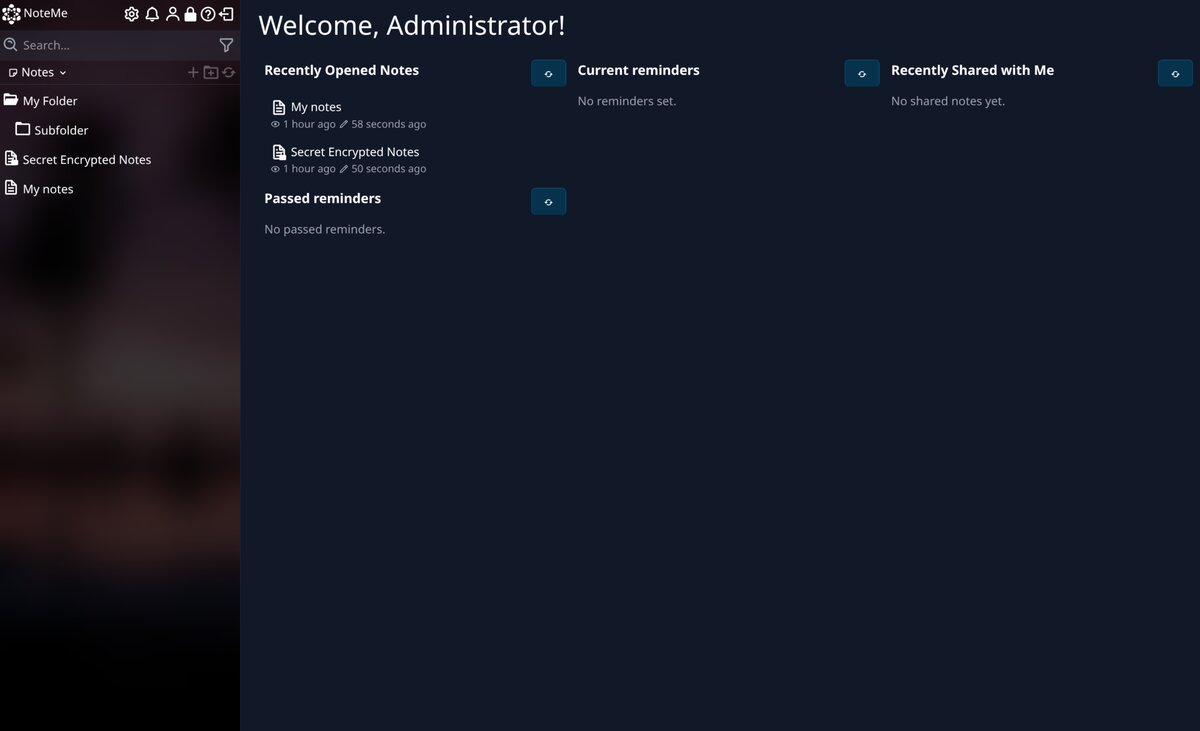
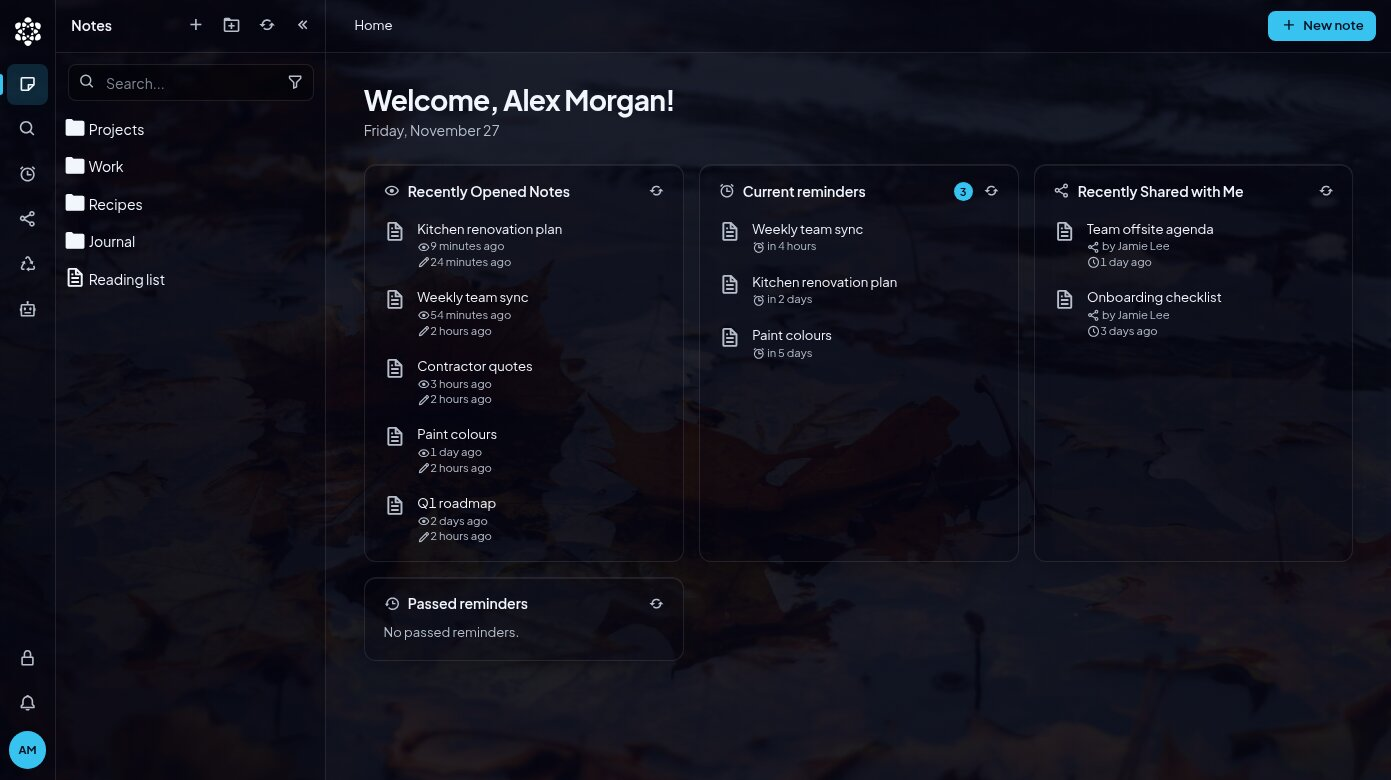
update screenshots, readme and v1 upgrade guide for the v2 release
New screenshots of the redesign, a feature list grouped by area, an
upgrade guide in docs/upgrading-from-v1.md and the Docker image published
as arekxv/note-me again (decision 0.92).

diff --git a/README.md b/README.md
@@ -4,57 +4,91 @@ NoteMe is a simple, note-taking app with powerful features which help you to
 keep the ownership of your notes and keep them organized however you see fit.
 
 <p>
-  <img src=".github/screenshot-1.jpg" alt="Login page" width="32%" />
-  <img src=".github/screenshot-2.jpg" alt="Dashboard" width="32%" />
-  <img src=".github/screenshot-3.jpg" alt="Note view" width="32%" />
+  <img src=".github/screenshot-1.jpg" alt="Sign in page" width="49%" />
+  <img src=".github/screenshot-2.jpg" alt="Dashboard with recent notes, reminders and notes shared with you" width="49%" />
+  <img src=".github/screenshot-3.jpg" alt="Note with a Mermaid diagram and a table, next to an AI assistant conversation" width="49%" />
+  <img src=".github/screenshot-4.jpg" alt="Rich text editor with the formatting toolbar" width="49%" />
 </p>
 
 ## Features
 
-- **Markdown support**. Notes are written and shown using markdown. All standard
-  markdown syntax is supported with additional flavors like task lists,
-  footnotes, tables and extensions special to NoteMe like showing dynamic table
-  of contents, note links and listing notes from a specific group.
+### Writing
+
+- **Rich text or markdown, your choice**. Write in a rich text editor with a
+  formatting toolbar, switch to the markdown source editor with syntax
+  highlighting, or preview the result, all on the same note. Notes are always
+  stored as plain markdown, and each user picks which editor opens first.
+- **Markdown with extras**. Everything standard markdown has, plus task lists,
+  tables, footnotes and highlighted code blocks. NoteMe adds its own blocks: a
+  live table of contents, links to other notes, a list of the notes in a
+  folder, aligned images and audio and video players.
 - **Mermaid diagrams**. Code blocks marked with the `mermaid` language are
-  rendered as [Mermaid](https://mermaid.js.org/) diagrams, letting you embed
-  flowcharts, sequence diagrams, class diagrams and more directly in your notes.
-- **Organize your notes**. You can tag your notes, store them in any kind of
-  groups or subgroups making it easy to create an exact structure you want.
-- **Multiple users welcome**. NoteMe supports multiple users with different
-  roles, each user has its own space for notes so that everyone on the same
-  NoteMe server can have their own folder structure.
-- **Sharing notes**. Notes created can be shared internally between users or to
-  everyone outside by creating a share link.
-- **Remind yourself of important notes**. You can set one-time or recurring
-  reminders for your own notes or the notes shared with you so that you never
-  forget an important task.
-- **History of changes**. Every saved change to your note is recorded in the
-  history so that you can easily compare changes or go back and forward in time.
-- **Note files**. You can upload any kind of file into NoteMe and use it in your
-  notes as an image or make it downloadable. Files can be made private or public
-  so that you can control who has access to them.
-- **Protect your notes**. Notes can be protected with your password meaning they
-  will be encrypted at rest in the database so that nobody except you can see
-  their contents, not even administrators, not even by anyone accessing the
-  database directly.
-- **Backup support**. Daily backups can be created by NoteMe and stored on the
-  server location or on AWS S3. You can specify multiple backup targets so that
-  you can backup to more than one place.
-- **Easy login with Passkeys**. You can setup a login into your notes by only
-  using secure Passkey standard without even needing to enter a password.
-- **Import/Export your data**. You can import all of your existing notes into
-  NoteMe or create a full export of all of your notes and files.
-- **AI assistant**. Administrators connect Ollama, OpenAI (or a compatible
-  server) or Claude, and users chat with an assistant that works on their notes,
-  folders, reminders and sharing with their own permissions. Actions that cannot
-  be undone wait for the user to allow them, and protected notes are only read
-  after the user agrees.
-- **Recycled Notes**. Deleted notes are kept in recycle bin for 30 days and can
-  be retrieved by you at any time or fully deleted.
+  drawn as [Mermaid](https://mermaid.js.org/) diagrams, so flowcharts,
+  sequence diagrams, timelines and more live right in your notes.
+- **History of changes**. Every saved change is kept as a version. Compare
+  any version with the current note line by line and restore it with one
+  click.
+- **Files in your notes**. Upload any file and show it in a note as an image
+  or a player, or make it downloadable. Browse files in a grid or a list and
+  mark each one private or public.
+
+### Organizing
+
+- **Folders and tags**. Put notes in folders and subfolders, rearrange them
+  by drag and drop, and tag them however you like.
+- **Search**. Find notes by title and content, narrowed down to a folder or a
+  set of tags.
+- **Dashboard**. See recently opened notes, upcoming and passed reminders and
+  notes others shared with you as soon as you sign in.
+- **Reminders**. Set one-time or recurring reminders on your own notes or the
+  ones shared with you and get a notification when they are due.
+- **Recycle bin**. Deleted notes stay in the recycle bin for 30 days, so you
+  can restore them or delete them for good.
+
+### Working together
+
+- **Multiple users**. Every user has their own notes and folders. Roles
+  decide who can manage users, files, backups and server settings.
+- **Sharing**. Share a note with other users, or with anyone through a public
+  link that can expire.
+- **Live updates**. Changes show up immediately in every open tab and for
+  everyone a note is shared with, without reloading.
+
+### AI
+
+- **AI assistant**. Administrators connect Ollama, OpenAI (or any compatible
+  server) or Claude, and users chat with an assistant that searches, reads,
+  writes and organizes their notes, folders, reminders and shares with the
+  user's own permissions. Actions that cannot be undone wait for the user to
+  allow them, and protected notes are only read after the user agrees.
+- **MCP server**. Connect your own AI tool, such as Claude, ChatGPT or Cursor,
+  to your notes over the Model Context Protocol with a personal token or
+  OAuth. Each connection can be limited to read only access.
+
+### Security and privacy
+
+- **Protected notes**. Protect a note with your password and it is encrypted
+  in the database, so nobody but you can read it: not other users, not
+  administrators and not anyone with direct access to the database.
+- **Passkeys**. Sign in with a passkey instead of a password.
+- **Hardened sign in**. Passwords are hashed with Argon2id, repeated failed
+  sign ins are rate limited, and administrators can review security events in
+  the audit log.
+- **Encrypted backups**. Nightly backups go to a folder on the server or to
+  AWS S3, to as many targets as you like, and every backup is encrypted.
+- **Your data, portable**. Import existing markdown or text files as notes,
+  or export all of your notes and files as one ZIP archive.
+
+### Hosting
+
 - **Easily hostable**. NoteMe is a single static binary with no runtime
-  dependencies (the database drivers are pure Go), or you can run it as a
-  docker container using one of the prebuilt container images. Data is kept in
-  SQLite, PostgreSQL or MySQL.
+  dependencies that runs on Linux, macOS and Windows, or a ready-made
+  container image. Keep your data in SQLite, PostgreSQL or MySQL, and move
+  between them by restoring a backup.
+- **Installable app**. Add NoteMe to your phone's home screen or your desktop
+  as a progressive web app.
+- **Built-in help**. Help pages and first-time introductions explain every
+  part of the app, including the administrator settings.
 
 # Development and Contributing
 
@@ -109,7 +143,7 @@ Requirements: [Docker](https://docs.docker.com/engine/install/) or
 1. Create `.env` file (use the one from this [repository](.env.example)) and
    set `BACKUP_ENCRYPTION_KEY` and `AI_ENCRYPTION_KEY` to secrets of your
    own; the server does not start without them
-2. Run `docker run -p 8000:8000 --env-file ./.env arekxv/note-me-go`
+2. Run `docker run -p 8000:8000 --env-file ./.env arekxv/note-me`
 
 By default application will be on `http://localhost:8000`.
 
@@ -204,6 +238,13 @@ always win.
 A value that cannot be parsed stops the server with an error instead of
 falling back to the default.
 
+# Upgrading from NoteMe v1
+
+NoteMe v2 is a rewrite in Go. Existing v1 data comes along, but the database
+must be converted once with `noteme-upgrade`, which asks for each user's
+password, and a few settings and the reverse proxy setup change. Follow the
+step by step guide in [docs/upgrading-from-v1.md](docs/upgrading-from-v1.md).
+
 # Building
 
 ## Build using Make
@@ -247,23 +288,7 @@ it, so a backup restores into SQLite, PostgreSQL or MySQL. Restoring into
 PostgreSQL or MySQL replaces every row of the configured database; this is
 also how to move from one database to another.
 
-## Upgrading from NoteMe v1
-
-Stop NoteMe v1, back up its database and run `noteme-upgrade` with
-`DATABASE_DSN` pointing at it and `FILES_LOCATION` set to the folder for
-uploaded files. It moves uploaded files out of the database into
-`FILES_LOCATION`, brings the database to the current structure and
-re-encrypts protected notes into the new format. Passkeys cannot be carried
-over and are removed; users register them again under Profile → Passkeys.
-
-Password hashes and protected notes can only be converted with each user's
-password, so the upgrade asks for every user's password (the input is
-visible; leave it empty to skip a user). A skipped user can no longer sign
-in until an administrator sets a new password for them in Settings → Users,
-and their protected notes are lost with the old password. Users that were
-deleted in v1 are removed together with their data. Running the upgrade
-again is safe. NoteMe refuses to start on a database that still needs the
-upgrade.
+## Audit log and server log
 
 Administrators can see security events (sign-ins, lockouts, password
 changes, user and backup management) under Settings → Audit log, kept for a
@@ -277,7 +302,7 @@ Steps:
 
 1. Run `make docker-build`
 2. After docker image is built run
-   `docker run -p 8000:8000 --env-file ./.env arekxv/note-me-go:<VERSION>`,
+   `docker run -p 8000:8000 --env-file ./.env arekxv/note-me:<VERSION>`,
    replace `<VERSION>` with the version you see from the output of the build
 
 ## Build using Podman
@@ -288,7 +313,7 @@ Steps:
 
 1. Run `make podman-build`
 2. After image is built run
-   `podman run -p 8000:8000 --env-file ./.env localhost/arekxv/note-me-go`
+   `podman run -p 8000:8000 --env-file ./.env localhost/arekxv/note-me`
 
 # License
 

diff --git a/docs/upgrading-from-v1.md b/docs/upgrading-from-v1.md
@@ -1,0 +1,73 @@
+# Upgrading from NoteMe v1 to v2
+
+NoteMe v2 is a rewrite in Go. Your notes, folders, tags, files, shares,
+reminders and history come along, but the database must be converted once
+with `noteme-upgrade` before v2 can use it. NoteMe v2 refuses to start on a
+database that has not been upgraded, so nothing is changed by accident.
+
+What changes for you:
+
+- **Passwords are needed once.** Password hashes and protected notes can only
+  be converted with each user's password, so the upgrade asks for every
+  user's password (the input is visible on screen). Leave one empty to skip
+  that user: they can sign in again after an administrator sets a new
+  password in Settings → Users, but their protected notes cannot be
+  recovered.
+- **Passkeys are removed.** Users register them again under Profile →
+  Passkeys.
+- **Uploaded files move out of the database** into `FILES_LOCATION`.
+- **Users deleted in v1** are removed for good, together with their data.
+- **One port.** The websocket is now served on `/ws` of the webserver port
+  (8000); port 8080 is no longer used.
+- **Settings changed.** `SQLITE_DATABASE_LOCATION` is replaced by
+  `DATABASE_DSN` (`sqlite:///app/data/database.sqlite`). `WEBSOCKET_PORT`,
+  `SOCKET_HOSTNAME`, `COOKIE_DOMAIN`, `RUN_MIGRATIONS_ON_STARTUP` and
+  `DISABLE_SERVICE_PERIODIC_TASKS` are gone. `BACKUP_ENCRYPTION_KEY` and
+  `AI_ENCRYPTION_KEY` are new and required. See
+  [Configuration](../README.md#configuration).
+- **Backups are encrypted** and a local backup target's location is now a
+  folder name inside `LOCAL_BACKUP_ROOT_LOCATION`, not an absolute path. Edit
+  local targets from v1 (for example `/app/backup` becomes `nightly`) in
+  Settings → Backups after the upgrade. Backups made by v1 cannot be restored
+  by v2; keep them together with the v1 image in case you need to go back.
+
+## Upgrade with Docker Compose
+
+These steps assume the v1 setup from the v1 `docker-compose.example.yml`
+(database in `./data`, local backups in `./backup`).
+
+1. Stop NoteMe: `docker compose down`
+2. Back up the database: `cp -a data data-v1-backup`
+3. Update `docker-compose.yml` from the new
+   [docker-compose.example.yml](../docker-compose.example.yml): keep your
+   domain in `APP_URL`, set `BACKUP_ENCRYPTION_KEY` and `AI_ENCRYPTION_KEY` to
+   secrets of your own, drop the 8080 port and the removed variables, and add
+   the `./files` volume.
+4. The v2 image runs as an unprivileged user (uid 65532) instead of root, so
+   give it the data folders:
+   `mkdir -p files backup && sudo chown -R 65532:65532 data files backup`
+5. Pull the new image: `docker compose pull`
+6. Run the upgrade and enter each user's password when asked:
+   `docker compose run --rm --entrypoint /app/noteme-upgrade note-me`
+7. Update the reverse proxy: remove the `/websocket-server` location and
+   forward `/ws` to port 8000 as shown in
+   [Reverse proxy](../README.md#reverse-proxy).
+8. Start NoteMe: `docker compose up -d`
+9. Sign in, register passkeys again and fix local backup target locations in
+   Settings → Backups.
+
+## Upgrade without Docker
+
+1. Stop NoteMe v1 and copy its database file somewhere safe.
+2. Build NoteMe v2 (see [Building](../README.md#building)).
+3. Set `DATABASE_DSN` to `sqlite://<path to the v1 database>` and
+   `FILES_LOCATION` to the folder for uploaded files, then run
+   `./bin/noteme-upgrade` and enter each user's password when asked. From a
+   source checkout, `make upgrade DB=path/to/database.sqlite FILES=files`
+   does the same.
+4. Set the rest of the configuration (see
+   [Configuration](../README.md#configuration)) and start `./bin/noteme`.
+
+The upgrade only works on SQLite and is safe to run again. To move to
+PostgreSQL or MySQL afterwards, make a backup in v2 and restore it into the
+new database (see [Backups and restore](../README.md#backups-and-restore)).

diff --git a/decisions/0.92-docker-image-and-upgrade-guide.md b/decisions/0.92-docker-image-and-upgrade-guide.md
@@ -1,0 +1,18 @@
+# 0.92 Docker image name and the v1 upgrade guide
+
+- Decided by: user (v2 is released as `arekxv/note-me`, the image v1 used,
+  with an upgrade guide in `docs/` linked from the README and the release
+  notes); Claude (details below)
+- Date: 2026-11-27
+
+- The release workflow, `Makefile` (`IMAGE`), the README and
+  `docker-compose.example.yml` use `arekxv/note-me`; `arekxv/note-me-go`
+  was the rewrite's working name and is no longer published. v2 is tagged
+  `2.0.0`, after v1's last tag `1.6.0`.
+- v1 users who pull `arekxv/note-me:latest` get v2, which refuses to start
+  on their database until `noteme-upgrade` has run, so nothing is changed
+  without the upgrade.
+- `docs/upgrading-from-v1.md` is the upgrade guide: what changes, the
+  Docker Compose steps (including `chown` to uid 65532, since the v1 image
+  ran as root and the distroless image runs as `nonroot`) and the steps
+  without Docker. The README keeps a short section that links to it.

diff --git a/CLAUDE.md b/CLAUDE.md
@@ -276,6 +276,7 @@ cmd/noteme/           server entrypoint: starts the app, no subcommands
 cmd/noteme-cli/       CLI entrypoint: migrate-up, migrate-down, new-migration, add-user, restore-backup, healthcheck, version
 cmd/noteme-upgrade/   upgrade of an original (Deno) or earlier Go sqlite database: files, migration table, passkeys, unique indexes, soft-deleted users, bcrypt passwords and note encryption
 decisions/            decision records (see Process)
+docs/                 user guides (upgrading from v1)
 internal/app          wiring: config, logger, db + migrations, http, websocket, workers
 internal/config       env loading via godotenv (.env then .env.defaults; process env wins) and typed config
 internal/logger       slog

diff --git a/decisions/README.md b/decisions/README.md
@@ -102,3 +102,4 @@ so in both files; old files are not deleted.
 | 0.89 | [Profile picture](0.89-profile-picture.md) |
 | 0.90 | [Assistant data export and running a periodic task now](0.90-ai-export-and-run-task-now.md) |
 | 0.91 | [Higher markdown extension limits](0.91-higher-extension-limits.md) |
+| 0.92 | [Docker image name and the v1 upgrade guide](0.92-docker-image-and-upgrade-guide.md) |
